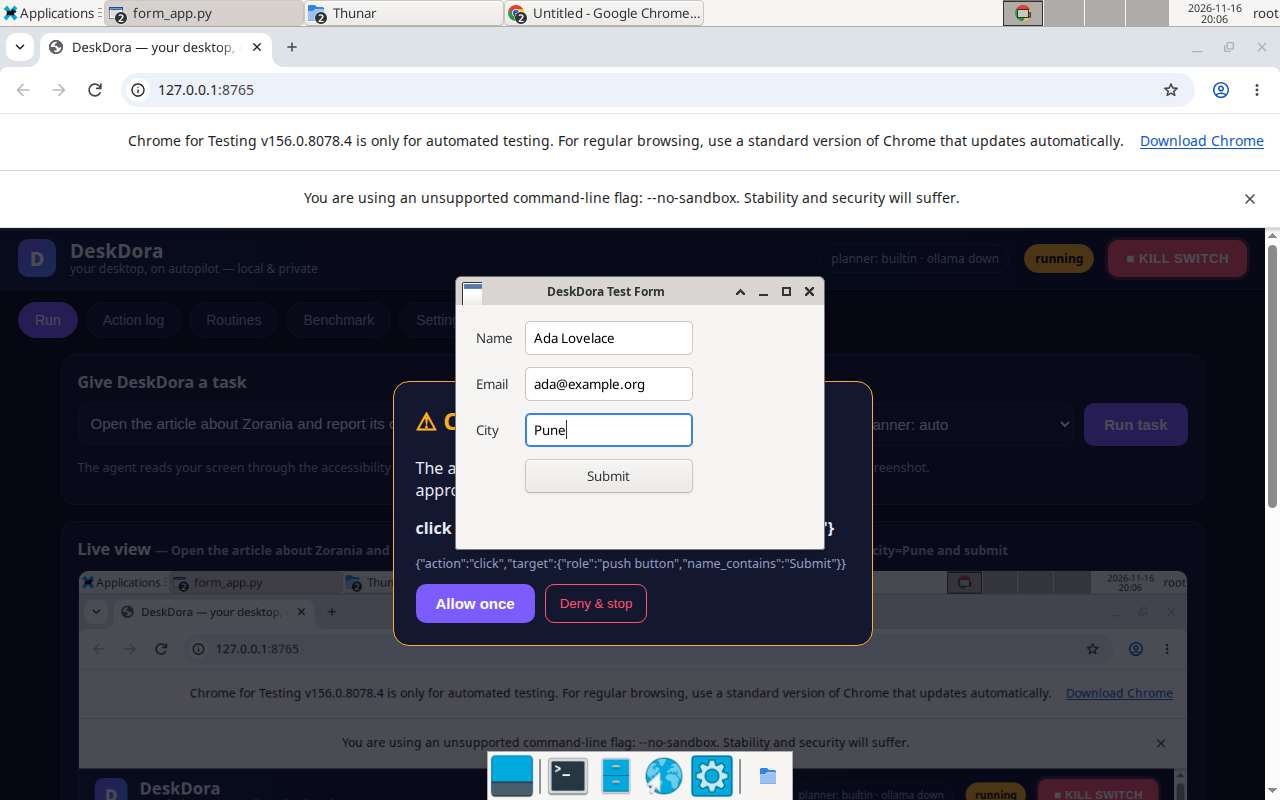
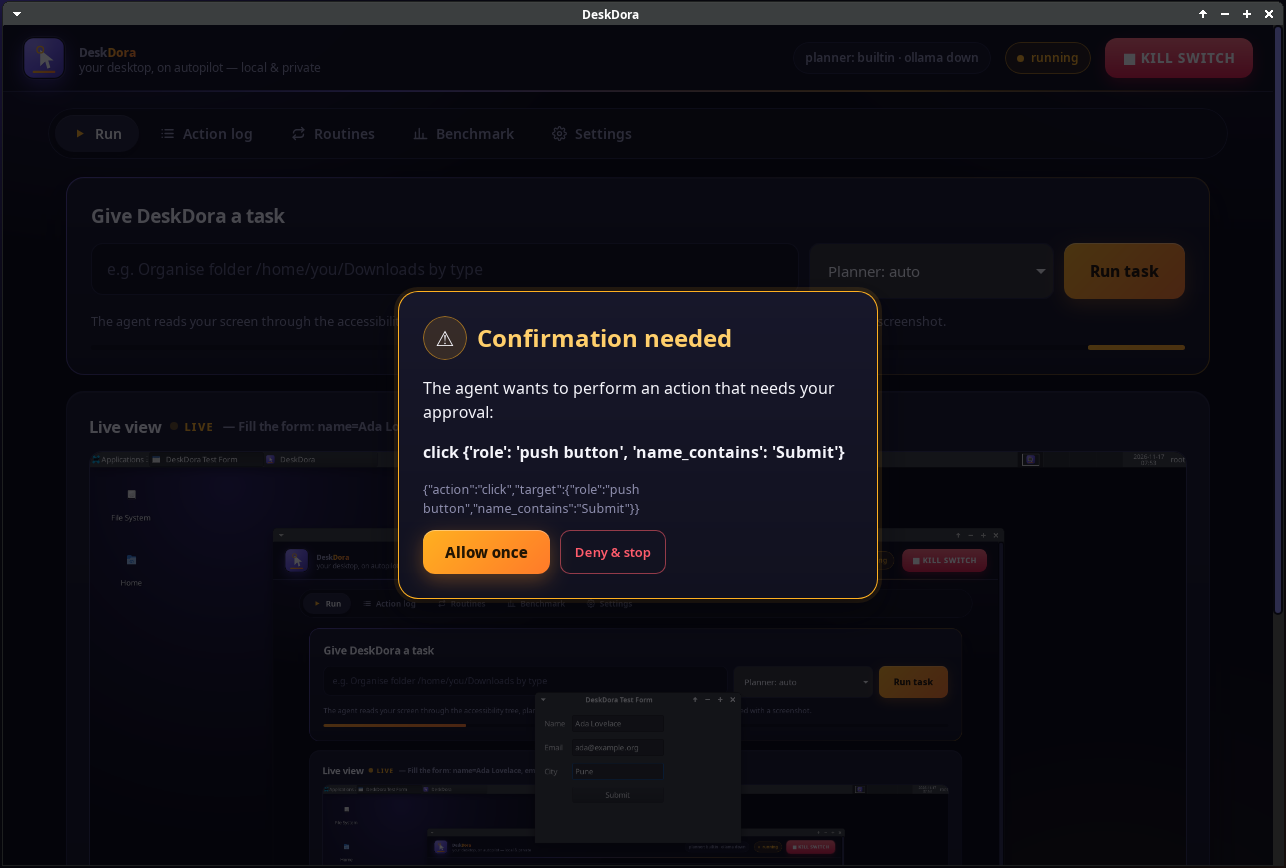
Docs: v3 app-window screenshots; README launch text

diff --git a/README.md b/README.md
@@ -13,7 +13,7 @@ It is **local-first**: planning runs on your machine (a local model via
 Ollama, or a built-in deterministic planner that needs no model at all).
 Your screen never streams to a cloud service, because there isn't one.
 
-![DeskDora web UI](docs/screenshots/ui-run.png)
+![DeskDora app window](docs/screenshots/ui-run.png)
 
 ## Why it works (and when it doesn't)
 
